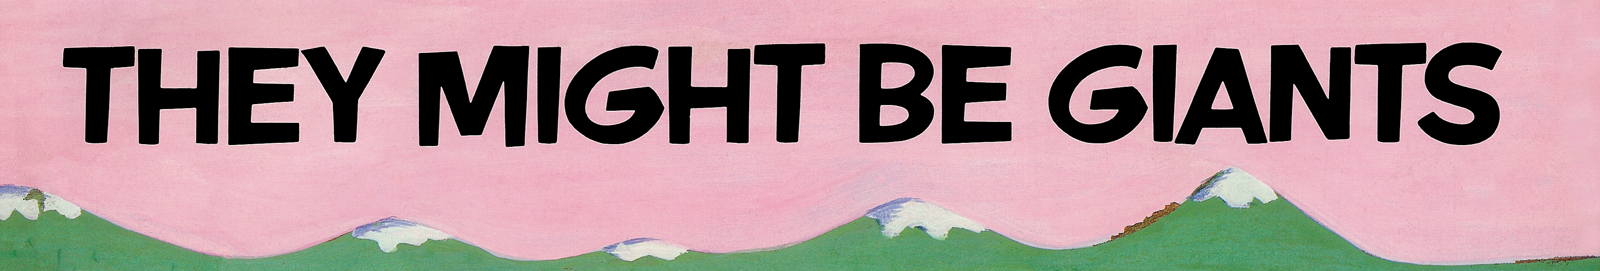
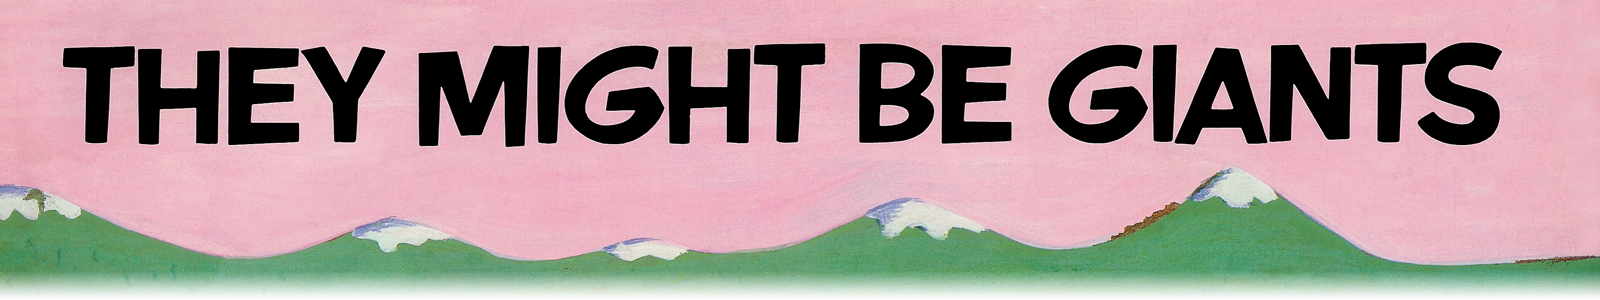
Header update

diff --git a/They Might Be Giants/azure.css b/They Might Be Giants/azure.css
@@ -1,0 +1,22 @@
+/* All pages */
+#header {
+    background: url(https://raw.githubusercontent.com/PrimmR/TMBW-Custom-CSS/main/They%20Might%20Be%20Giants/media/Header.png) no-repeat bottom;
+    background-size: contain !important;
+    /* Hardcoded from surrounding elements + aspect ratio */
+    height: calc((94vw - 275px) / (1600/300));
+}
+
+@media (max-width: 767px) {
+    #header {
+        height: 0;
+        padding-bottom: calc(100vw / (1600/300) + 40px);
+    }
+}
+
+#subtitle {
+    display: none;
+}
+
+#container {
+    background: #5c9970;
+}
